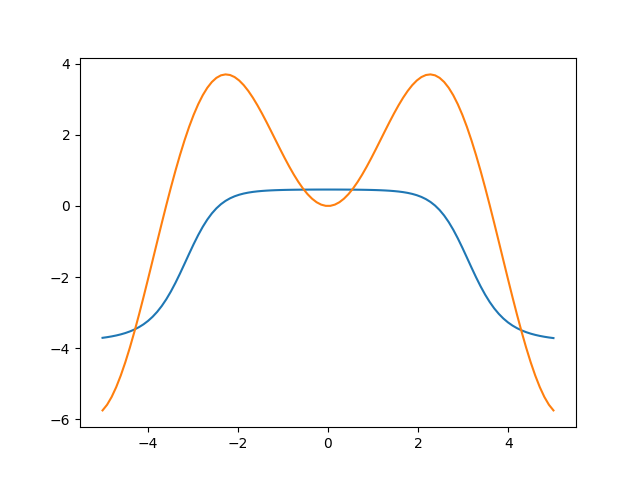
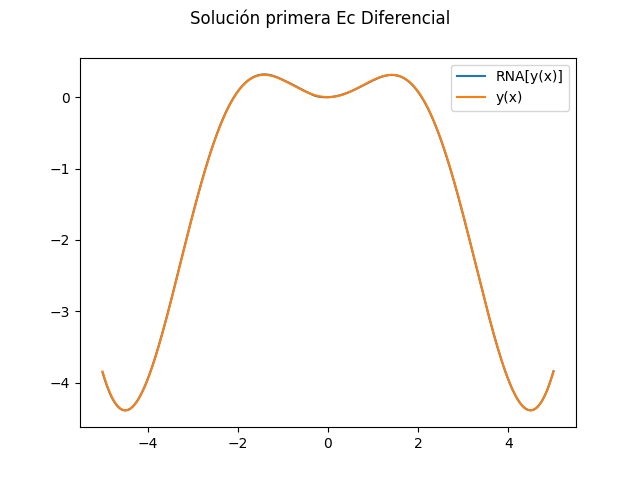
Se agregaron más capas con mas neuronas y se cambió la sintaxis de la solución analítica, dado que estaba mal y las gráficas no coincidian jeje:(

diff --git a/ODE1.py b/ODE1.py
@@ -42,20 +42,29 @@ class ODEsolver(Sequential):
 			return {"loss": self.loss_tracker.result()}
 
 model = ODEsolver()
-model.add(Dense(10, activation='tanh', input_shape=(1,)))
-model.add(Dense(1, activation='tanh'))
+model.add(Dense(100, activation='tanh', input_shape=(1,)))
+model.add(Dense(10, activation='tanh'))
+model.add(Dense(10, activation='tanh'))
+model.add(Dense(10, activation='tanh'))
+model.add(Dense(10, activation='tanh'))
+model.add(Dense(10, activation='tanh'))
+model.add(Dense(10, activation='tanh'))
+model.add(Dense(10, activation='tanh'))
 model.add(Dense(1, activation='linear'))
 
 model.summary()
 
-model.compile(optimizer=RMSprop(),metrics=['loss'])
-x=tf.linspace(-5,5,100)
-history = model.fit(x, epochs=500, verbose=1)
+model.compile(optimizer=Adam(learning_rate=0.0001 ),metrics=['loss'])
+x=tf.linspace(-5,5,1000)
+history = model.fit(x, epochs=3000, verbose=1)
 
-x_testv = tf.linspace(-5,5,100)
+x_testv = tf.linspace(-5,5,1000)
 a=model.predict(x_testv)
 plt.plot(x_testv,a)
-plt.plot(x_testv, x*np.sin(x)+2*(-x*tf.math.cos(x)+np.sin(x))/x)
+plt.plot(x_testv, x*np.sin(x)+2*np.cos(x)-2*np.sin(x)/x)
+plt.suptitle('Solución primera Ec Diferencial')
+leyendas = ['RNA[y(x)]','y(x)']
+plt.legend(loc = "upper right", labels = leyendas)
 plt.show()
 exit()
 
